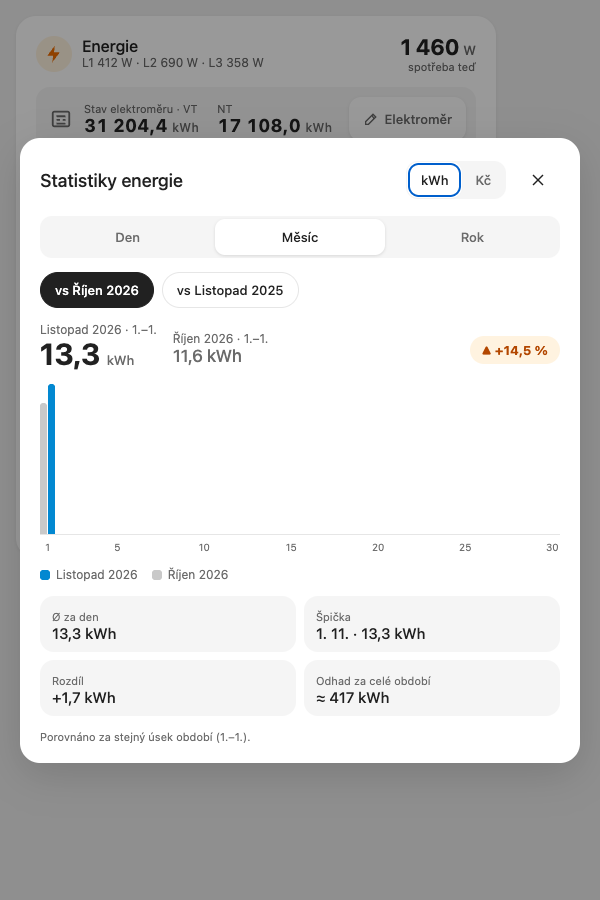
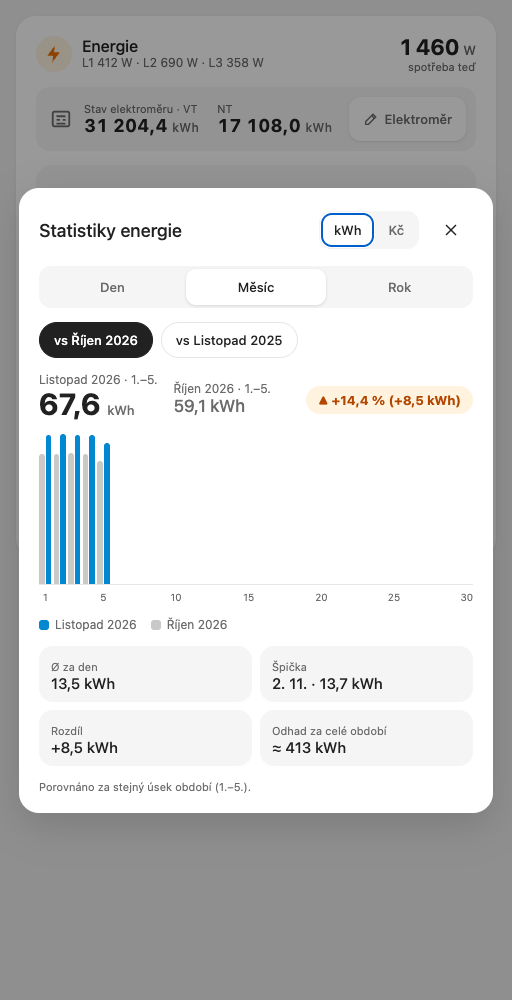
Stats dialog: show the absolute difference next to the percentage (#4)
The comparison chip reads "▲ +14,4 % (+8,5 kWh)" in the selected unit
(kWh or Kč). Version 0.1.2.

Claude-Session: https://claude.ai/code/session_01RVUxo5VW7r4mnvLPnprt8u

diff --git a/dist/energy-card.js b/dist/energy-card.js
@@ -10,7 +10,7 @@
  * weekend days). https://github.com/eMalinos/energy-card
  */
 
-const VERSION = '0.1.1';
+const VERSION = '0.1.2';
 
 const REQUIRED = ['energy_entity', 'power_entity', 'meter_vt', 'meter_nt', 'meter_history', 'meter_script'];
 const CACHE_MS = 5 * 60 * 1000;
@@ -636,7 +636,7 @@ class EnergyCard extends (globalThis.HTMLElement ?? class {}) {
     this._statsDlg.innerHTML = `<div class="dlg">${head}${tabs}${cmpPills}`
       + `<div class="cmp"><div><div class="note">${esc(nm.cur)} · ${esc(nm.span)}</div><div class="v">${fmt(curV, d)} <span class="unit">${u}</span></div></div>`
       + `<div style="padding-bottom:4px"><div class="note">${esc(prevName)} · ${esc(nm.span)}</div><div class="p">${fmt(prevV, d)} ${u}</div></div><div class="sp"></div>`
-      + (p == null ? '' : `<span class="chip ${p > 0 ? 'up' : 'down'}" style="margin-bottom:6px;font-size:13px">${p > 0 ? '▲ +' : '▼ '}${fmt(p, 1)} %</span>`) + '</div>'
+      + (p == null ? '' : `<span class="chip ${p > 0 ? 'up' : 'down'}" style="margin-bottom:6px;font-size:13px">${p > 0 ? '▲ +' : '▼ '}${fmt(p, 1)} % (${curV > prevV ? '+' : ''}${fmt(curV - prevV, d)} ${u})</span>`) + '</div>'
       + `<div><div class="bars">${bars}</div><div class="blab">${labels}</div></div>`
       + `<div class="legend"><span><i class="c"></i>${esc(nm.cur)}</span><span><i></i>${esc(prevName)}</span></div>`
       + `<div class="kpis">${kpis.map((k) => `<div><span class="lbl">${k.l}</span><b>${k.v}</b></div>`).join('')}</div>`

diff --git a/README.md b/README.md
@@ -22,9 +22,9 @@ A Home Assistant card for household electricity: how much was used and what it c
 
 **Manual:** copy [`dist/energy-card.js`](dist/energy-card.js) (or the file from the latest release) to your Home Assistant `config/www/` folder, then add it as a dashboard resource:
 
-Settings → Dashboards → ⋮ → Resources → Add resource → URL `/local/energy-card.js?v=0.1.1`, type **JavaScript module** → reload the browser.
+Settings → Dashboards → ⋮ → Resources → Add resource → URL `/local/energy-card.js?v=0.1.2`, type **JavaScript module** → reload the browser.
 
-After copying a new version, change `?v=` in the resource URL (e.g. `?v=0.1.1`), otherwise browsers keep the old file.
+After copying a new version, change `?v=` in the resource URL (e.g. `?v=0.1.2`), otherwise browsers keep the old file.
 
 ## Configuration
 
